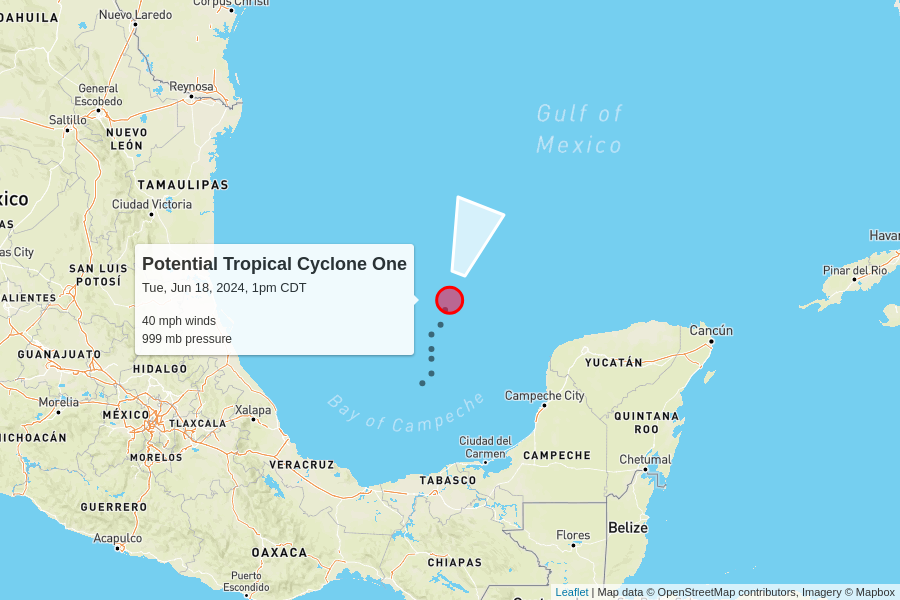
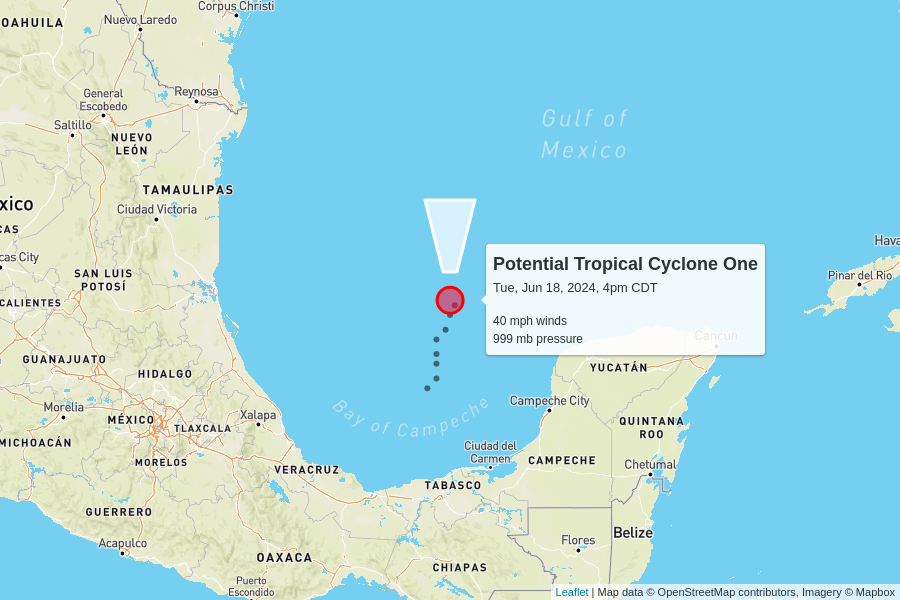
automatic update

diff --git a/docs/index.html b/docs/index.html
@@ -102,7 +102,7 @@
         <td colspan="6" class="storm category-0" >
           <h2>
             Potential Tropical Cyclone One
-            <p class="updated">last updated <span data-time>2024-06-18T18:00:00.000Z</span></p>
+            <p class="updated">last updated <span data-time>2024-06-18T21:00:00.000Z</span></p>
           </h2>
         </td>
       </tr>
@@ -120,9 +120,9 @@
         <td>40 mph<br>0 mph since last update</td>
         <td>999 mb<br>0 mb since last update</td>
         <td>
-          6 mph to the north-northeast
+          6 mph to the north
           <br/>
-          <span style="display: inline-block; font-size: 1.5em; transform: rotate(20deg);">↑</span>
+          <span style="display: inline-block; font-size: 1.5em; transform: rotate(360deg);">↑</span>
         </td>
         <td><a href="https://raw.githubusercontent.com/mgwalker/atlantic-hurricanes/main/data/csv/AL012024.csv">AL012024.csv</a></td>
         <td><a href="https://www.nhc.noaa.gov/archive/2024/ONE.shtml?">NHC advisories</a></td>
